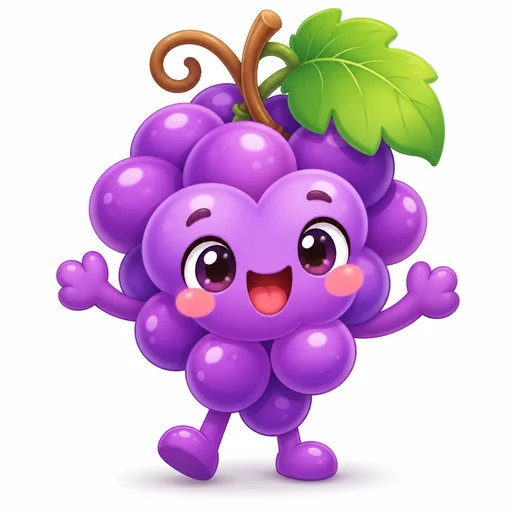
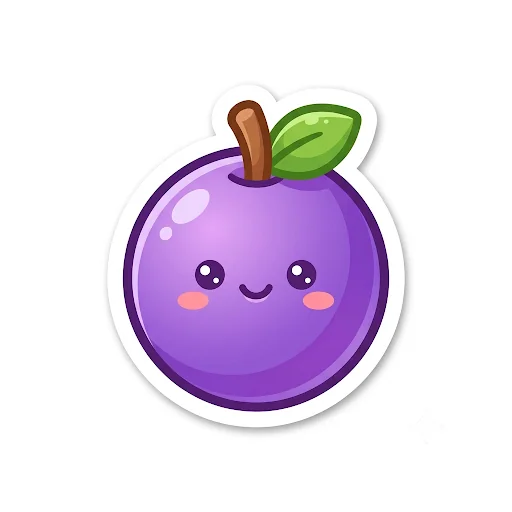
feat(art): CR-148 artgen debt closed via Google Flow lane - 26 assets
Google Flow (flow.google.com, Nano Banana 2.1, CDP-driven real Chrome)
generated the full remaining queue in one pass: pet stage 4/5 x3
species, 10 trail stickers + mystery-island, 8 game card arts, and the
single-berry grape fix. Wiring follows the new files:

- defs.ts: artImage on the 8 art-less games (all 23 defs now have art)
- petArtUrl: PET_MAX_ART_STAGE clamp removed, stages 4/5 resolve own art
- COUNTING_UNIT_EXCLUDE emptied - single-grape art restores grape to
  counting/describe pools and the repeat tier
- scripts/artgen/run-flow.mjs: resume-safe CDP driver (x2-output settle
  fix prevents cross-asset misattribution)

Generated with [Devin](https://devin.ai)

diff --git a/src/lib/content/countingArtResolve.test.ts b/src/lib/content/countingArtResolve.test.ts
@@ -4,6 +4,7 @@ import { ensureContentBank, allWords } from './contentBank';
 import { getWordVisual } from '../emoji/wordVisual';
 import { generateCountingImageQuestions } from '../generators/countingImage';
 import { generateDescribeAndChooseImageQuestions } from '../generators/describeAndChooseImage';
+import { COUNTING_UNIT_EXCLUDE } from './imageSemantics';
 import {
   countingArtKey,
   countingOptionArtUrl,
@@ -47,13 +48,11 @@ describe('resolveCountingGroupArt (CR-145 r225)', () => {
     expect(resolveCountingGroupArt([])).toBeNull();
   });
 
-  it('r226: excludes multi-object depictions from repeat (grape = a bunch, not one grape)', () => {
-    /* One grape option anywhere in the group drops the repeat tier. */
-    const withGrapeId = [opt('cat', 4, 'cat'), opt('grape', 3, 'grape'), opt('dog', 2, 'dog'), opt('apple', 5, 'apple')];
-    expect(resolveCountingGroupArt(withGrapeId)).toBeNull();
-    /* Legacy rows resolve exclusion by word text too. */
-    const withGrapeText = [opt('cat', 4), opt('grape', 3), opt('dog', 2), opt('apple', 5)];
-    expect(resolveCountingGroupArt(withGrapeText)).toBeNull();
+  it('single-berry grape art restores grape to the repeat tier', () => {
+    /* concept-grape-fc24e5 now depicts ONE grape (artgen CR-148 debt
+       closed) - grape options resolve repeat like any countable. */
+    const withGrape = [opt('cat', 4, 'cat'), opt('grape', 3, 'grape'), opt('dog', 2, 'dog'), opt('apple', 5, 'apple')];
+    expect(resolveCountingGroupArt(withGrape)).toBe('repeat');
     /* A same-unit depiction (one nest containing eggs = one nest) stays. */
     const withNest = [opt('cat', 4, 'cat'), opt('nest', 3, 'nest'), opt('dog', 2, 'dog'), opt('apple', 5, 'apple')];
     expect(resolveCountingGroupArt(withNest)).toBe('repeat');
@@ -111,14 +110,17 @@ describe('generated-question art coverage (CR-145 r225 proof)', () => {
     expect(covered / total).toBeGreaterThan(0.8);
   });
 
-  it('r227: no generated counting/describe question shows a multi-unit word (grape bunch)', () => {
+  it('r227: generated counting/describe questions never show a unit-mismatched word', () => {
+    /* grape left COUNTING_UNIT_EXCLUDE when its art became a single
+       berry - keep the invariant as "every shown word is unit-safe". */
+    expect([...COUNTING_UNIT_EXCLUDE].length).toBe(0);
     for (const words of topics().values()) {
       for (const q of generateCountingImageQuestions(words)) {
-        for (const o of q.options) expect(o.wordId).not.toBe('grape');
-        expect(q.prompt.wordId).not.toBe('grape');
+        for (const o of q.options) expect(COUNTING_UNIT_EXCLUDE.has(o.wordId ?? '')).toBe(false);
+        expect(COUNTING_UNIT_EXCLUDE.has(q.prompt.wordId ?? '')).toBe(false);
       }
       for (const q of generateDescribeAndChooseImageQuestions(words)) {
-        for (const o of q.options) expect(o.wordId).not.toBe('grape');
+        for (const o of q.options) expect(COUNTING_UNIT_EXCLUDE.has(o.wordId ?? '')).toBe(false);
       }
     }
   });

diff --git a/src/games/defs.ts b/src/games/defs.ts
@@ -165,6 +165,7 @@ export const GAME_DEFS: readonly GameDef[] = [
   {
     id: 'missing-letter',
     skill: 'spelling',
+    artImage: '/images/games/missing-letter.webp',
     title: 'Điền chữ khuyết',
     tagline: 'Chọn đúng chữ còn thiếu trong từ',
     emoji: '🔠',
@@ -175,6 +176,7 @@ export const GAME_DEFS: readonly GameDef[] = [
   {
     id: 'sentence-scramble',
     skill: 'wordorder',
+    artImage: '/images/games/sentence-scramble.webp',
     title: 'Xếp câu',
     tagline: 'Chạm các từ theo đúng thứ tự thành câu',
     emoji: '🧩',
@@ -185,6 +187,7 @@ export const GAME_DEFS: readonly GameDef[] = [
   {
     id: 'odd-one-out',
     skill: 'vocabulary',
+    artImage: '/images/games/odd-one-out.webp',
     title: 'Tìm kẻ lạ',
     tagline: 'Chọn từ không cùng nhóm với ba từ kia',
     emoji: '🕵',
@@ -195,6 +198,7 @@ export const GAME_DEFS: readonly GameDef[] = [
   {
     id: 'say-it-loud',
     skill: 'speaking',
+    artImage: '/images/games/say-it-loud.webp',
     title: 'Đọc to nào',
     tagline: 'Nghe mẫu rồi đọc to vào micro',
     emoji: '🎤',
@@ -205,6 +209,7 @@ export const GAME_DEFS: readonly GameDef[] = [
   {
     id: 'story-time',
     skill: 'reading',
+    artImage: '/images/games/story-time.webp',
     title: 'Đọc truyện',
     tagline: 'Nghe truyện, đọc theo rồi trả lời câu hỏi',
     emoji: '📖',
@@ -212,11 +217,10 @@ export const GAME_DEFS: readonly GameDef[] = [
     tone: 'sky',
     fresh: true,
   },
-  /* CR-147 trio - emoji diorama cards until the games/ artgen pass
-     (same status as the 5 existing art-less defs). */
   {
     id: 'counting-shop',
     skill: 'count-and-name',
+    artImage: '/images/games/counting-shop.webp',
     title: 'Cửa hàng của Heo',
     tagline: 'Đếm hàng rồi chọn đúng số',
     emoji: '🏪',
@@ -227,6 +231,7 @@ export const GAME_DEFS: readonly GameDef[] = [
   {
     id: 'rhyme-pond',
     skill: 'phonics',
+    artImage: '/images/games/rhyme-pond.webp',
     title: 'Ao vần',
     tagline: 'Nghe từ rồi chọn lá sen cùng vần',
     emoji: '🪷',
@@ -237,6 +242,7 @@ export const GAME_DEFS: readonly GameDef[] = [
   {
     id: 'flag-voyage',
     skill: 'listening',
+    artImage: '/images/games/flag-voyage.webp',
     title: 'Chuyến tàu cờ',
     tagline: 'Nghe tên nước, chọn đúng lá cờ',
     emoji: '🚂',

diff --git a/src/lib/engagement/store.ts b/src/lib/engagement/store.ts
@@ -1359,10 +1359,7 @@ export function getPlayerLevel(): PlayerLevelSnapshot {
 export const PET_STAGE_XP = [0, 50, 250, 600, 1500, 4000] as const;
 const PET_STAGE_NAMES = ['Trứng', 'Bé', 'Nhỏ', 'Trưởng thành', 'Anh hùng', 'Huyền thoại'] as const;
 
-/** Stage art exists for 0-3 only (CR-148 debt: pet-{species}-4/5.webp
- *  needs the artgen pass) - stages 4/5 keep the adult art with the new
- *  title instead of a broken image. */
-const PET_MAX_ART_STAGE = 3;
+
 
 export const PET_SPECIES: Record<PetSpecies, { nameVi: string; emojis: readonly string[] }> = {
   cat: { nameVi: 'Mèo Mun', emojis: ['🥚', '🐱', '🐈', '🐯', '🐯✨', '🐯👑'] },
@@ -1374,11 +1371,9 @@ export const PET_SPECIES: Record<PetSpecies, { nameVi: string; emojis: readonly 
 };
 
 /** Bespoke art path per stage - generated pet arc (public/images/pets).
- *  Stage 0 egg is shared across species; stages above PET_MAX_ART_STAGE
- *  clamp to the adult art (CR-148). */
+ *  Stage 0 egg is shared across species. */
 export function petArtUrl(species: PetSpecies, stage: number): string {
-  const artStage = Math.min(stage, PET_MAX_ART_STAGE);
-  return artStage === 0 ? '/images/pets/pet-egg.webp' : `/images/pets/pet-${species}-${artStage}.webp`;
+  return stage === 0 ? '/images/pets/pet-egg.webp' : `/images/pets/pet-${species}-${stage}.webp`;
 }
 
 export function petStageForXp(xp: number): number {

diff --git a/src/lib/engagement/pet.test.ts b/src/lib/engagement/pet.test.ts
@@ -48,13 +48,15 @@ describe('pet stages (AC-36.2)', () => {
     expect(petStageForXp(99999)).toBe(5);
   });
 
-  it('CR-148 P1-5: stages 4/5 clamp to adult art until artgen delivers', () => {
+  it('P1-5: stages 4/5 resolve their own bespoke art', () => {
     recordCorrectAnswers(160); // 1600 xp -> hero stage
     choosePet('dragon');
     const pet = getPet();
     expect(pet.stage).toBe(4);
     expect(pet.stageName).toBe('Anh hùng');
-    expect(pet.art).toBe('/images/pets/pet-dragon-3.webp');
+    expect(pet.art).toBe('/images/pets/pet-dragon-4.webp');
+    recordCorrectAnswers(240); // 4000 xp -> legend stage
+    expect(getPet().art).toBe('/images/pets/pet-dragon-5.webp');
   });
 
   it('choosing a species keeps earned xp and resolves emoji/name', () => {

diff --git a/src/lib/content/imageSemantics.ts b/src/lib/content/imageSemantics.ts
@@ -84,10 +84,8 @@ export function isLiteralImageWord(word: VocabWord): boolean {
  * the art AND the emoji show a bunch, so every visual layer would grade
  * the wrong quantity. ('team'/'forest'/'nest' depict ONE team/forest/
  * nest and stay - the named unit matches the picture.)
- * `grape`: emoji + concept art are both a ~7-15-grape bunch; regenerate a
- * single-grape asset via the artgen loop, then remove the entry.
  */
-export const COUNTING_UNIT_EXCLUDE: ReadonlySet<string> = new Set(['grape']);
+export const COUNTING_UNIT_EXCLUDE: ReadonlySet<string> = new Set();
 
 /**
  * Counting-image / describe-and-choose-image pool rule: countable AND

diff --git a/scripts/artgen/resize2.py b/scripts/artgen/resize2.py
@@ -7,7 +7,10 @@ from PIL import Image
 ROOT = Path(__file__).resolve().parents[2]
 OUT = ROOT / 'artgen-out'
 PUB = ROOT / 'public' / 'images'
-MANIFESTS = [Path(__file__).parent / 'manifest2.mjs']
+MANIFESTS = [
+    Path(__file__).parent / 'manifest2.mjs',
+    Path(__file__).parent / 'manifest-cr148.mjs',
+]
 # Non-JSON manifests (JS literal entries) handled by stem glob below.
 GLOBS = [('land-', 'lands', 1024, 88), ('emblem-', 'emblems', 512, 85)]
 
